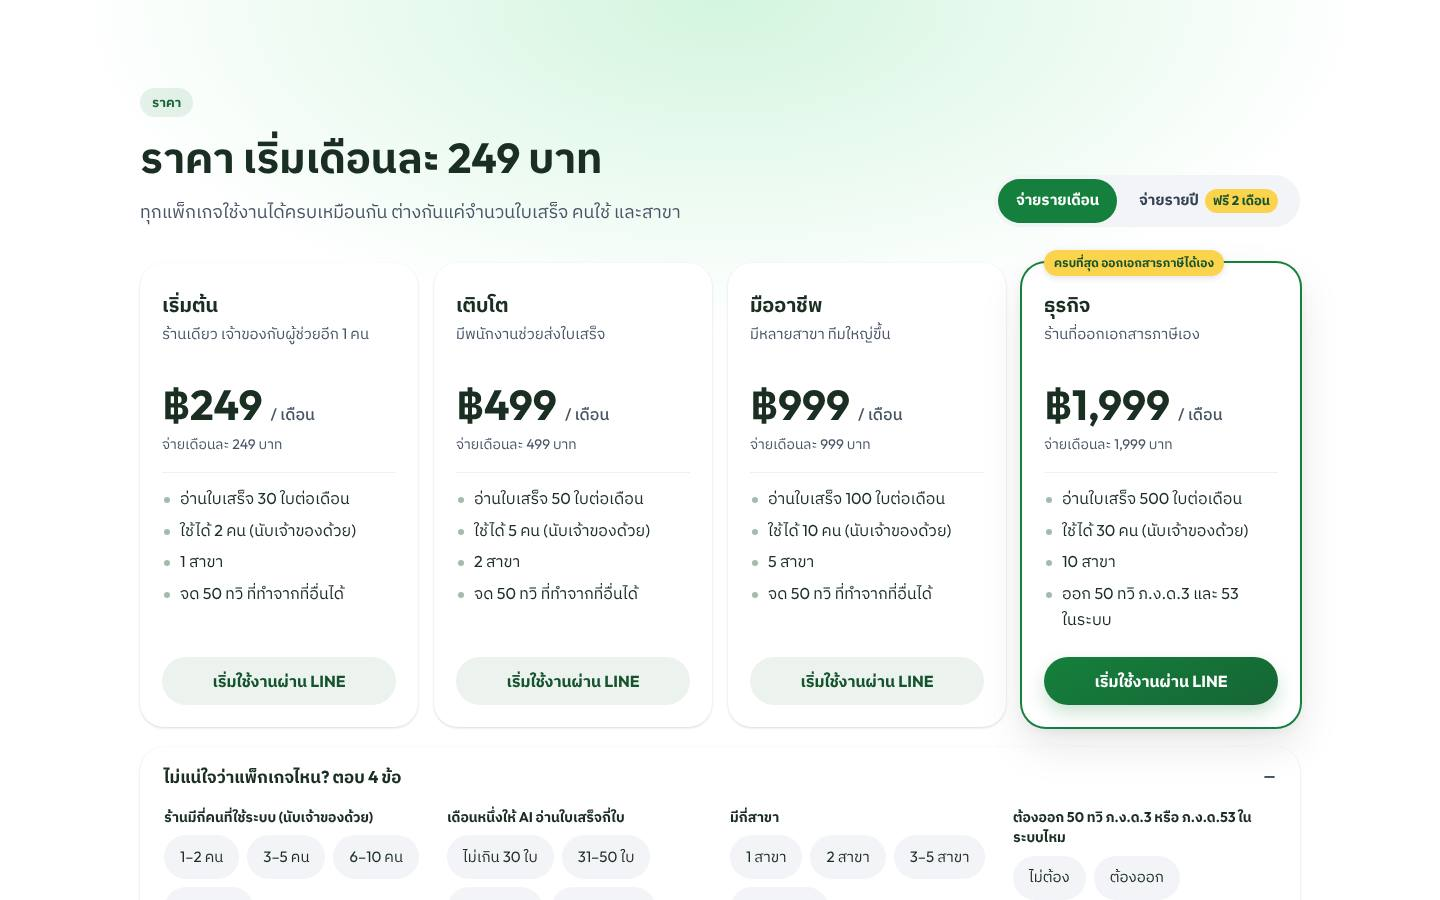
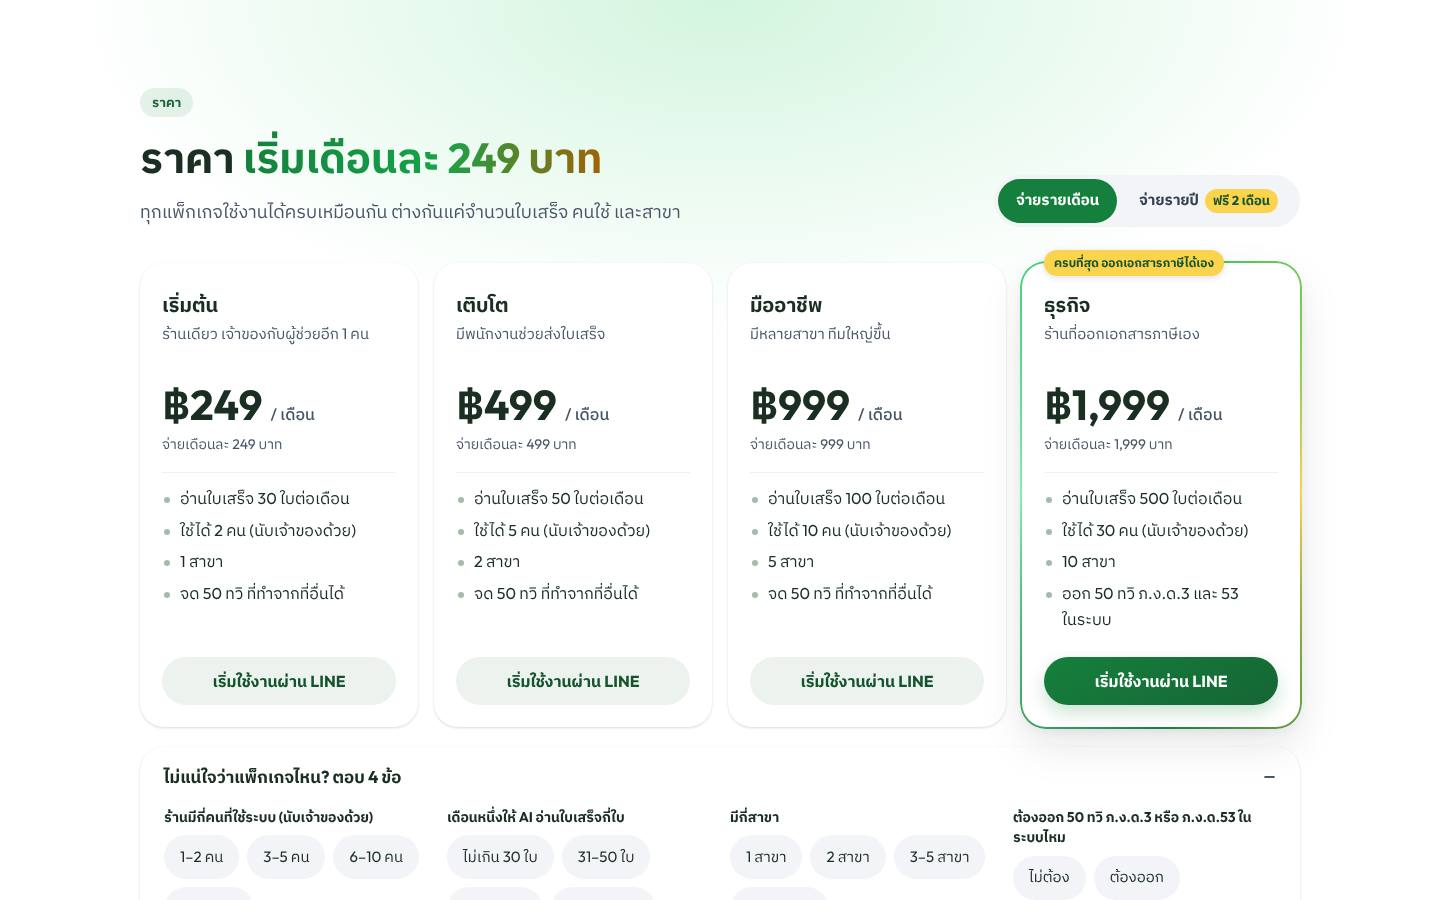
docs: v3 website gets a SaaS-style product stage, feature marquee, count-up stats and a dark glowing bento
The owner found the page flat. The Envato references were unreachable
from this environment, so the round uses common SaaS/AI landing
patterns: a centered hero over a web dashboard mock that mirrors the
real home dashboard beside the LINE chat, drifting glow orbs, a
feature marquee, catalog figures that count up, a dark bento section
and a rotating ring on the featured plan.

Claude-Session: https://claude.ai/code/session_01J7ScAcuHmAWY52w61WzGcF

Changed region(s): [[0.1562, 0.1556, 0.4375, 0.2178], [0.875, 0.7778, 0.9062, 0.8089]]

diff --git a/docs/agent-memory/mangmee-main-website-prototype-2026-10-20.md b/docs/agent-memory/mangmee-main-website-prototype-2026-10-20.md
@@ -309,3 +309,17 @@ Decisions:
 - Hero grid texture via masked ::before; gradient text (#86EFAC→#BBF7D0→#FDE68A) on the green headline line; dot texture on `.alt`.
 - Bento grid replaces the jobs row + full-width blocks: jobs span 2/6 each; น้องมั่งมี spans 4/6 (inner 2 columns, "ควรรู้" and asks full width); ENTERPRISE spans 2/6 as a tall dark tile with form pills and catalog figures (500 ใบ, 30 คน, 10 สาขา). One column under 1100px container width.
 Verification: Chromium 1440/390 no overflow (home 6643 / 12349; pricing 3153 / 5500); scroll test 0 transparent in-view sections; hover lift still -6px; canvas version 20.
+
+## Revision 3m — SaaS/AI template energy
+
+Status: Complete — prototype only.
+Trigger: Owner: "ระบบดูไม่น่าสนใจ ดูเฉยมาก" with two Envato Elements template links.
+Blocked: elements.envato.com is denied by this environment's network policy (proxy CONNECT 403; WebFetch DNS fail); web search did not surface the items. Used common SaaS/AI landing patterns instead and told the owner; did not claim to copy the templates.
+Decisions (apply_r13.py, reproducible from the round-12 file):
+- Centered hero + product stage: web dashboard mock mirroring the real home dashboard strings (dashboard-notifications: รายจ่ายของร้าน, ตั้งแต่/ถึง, ทุกสาขา, ยืนยันแล้ว, ใบเสร็จรอตรวจ, ค้างจ่ายทั้งหมด, monthly confirmed bars, อัปโหลดใบเสร็จ, สร้างใบเบิก) with the LINE phone, mascot and confirmed card overlapping; tilt-in and bar-grow on load; drifting glow orbs. Phone layout hides the dashboard.
+- Feature marquee (13 real capabilities; duplicate list aria-hidden; pauses on hover).
+- Stats card overlapping the hero edge with CSS @property count-up (scroll-driven where supported): 249 / 500 / 30 / 80 from the catalog; sr-only static numbers for screen readers.
+- `#use` becomes a dark gradient section (`dark-sec dark`) with glass job cards and glow hover; น้องมั่งมี card forced back to ink text (it inherited white at first — caught in render).
+- Featured plan: rotating conic-gradient ring via @property --ang (replaces the solid ring + pulse).
+- `.hl` gradient words in h2s.
+Verification: Chromium 1440/390 no overflow (home 7155 / 12627; pricing 3153 / 5500); marquee translateX moves (-31→-111px in 1.5s); count-up mid-scroll 62/124/7/20 then 249/500/30/80; ring --ang advances; scroll test 0 transparent sections; ask bubbles opacity 1 when in view; hover lift -6px; canvas version 22.

diff --git a/docs/prototypes/mangmee-main-website/v3/README.md b/docs/prototypes/mangmee-main-website/v3/README.md
@@ -146,6 +146,15 @@
 - ภาพแรกมีเส้นตารางจาง ๆ หัวเรื่องบรรทัดเน้นไล่สีเขียวไปทอง ส่วนพื้นเขียวอ่อนมีลายจุด
 - ส่วน “ใช้ทำอะไรได้” เป็น bento grid กล่องขนาดต่างกัน กล่องแพ็กเกจธุรกิจสีเข้มแสดง 50 ทวิ ภ.ง.ด.3 ภ.ง.ด.53 และ 500 ใบ 30 คน 10 สาขา
 
+### รอบ 13: ให้หน้าเว็บตื่นเต้นแบบเว็บ SaaS/AI
+
+- เปิดลิงก์ Envato ที่ส่งมาไม่ได้ เพราะเครือข่ายของเครื่องที่ใช้ทำงานบล็อกเว็บนั้น จึงใช้รูปแบบที่เว็บ SaaS/AI ใช้กันทั่วไป
+- ภาพแรกจัดกึ่งกลาง ใต้ปุ่มเป็นภาพหน้าเว็บสรุปรายจ่ายคู่กับแชต LINE น้องมั่งมี กราฟแท่งค่อย ๆ โตขึ้น มีแสงเขียวทองลอยด้านหลัง
+- แถบความสามารถเลื่อนวนไม่หยุด และแถบตัวเลขนับขึ้น 249 / 500 / 30 / 80
+- ส่วน “ใช้ทำอะไรได้” เป็นพื้นเขียวเข้ม การ์ดเรืองแสงตอนชี้
+- การ์ดแพ็กเกจ 1,999 มีขอบไล่สีหมุนรอบ
+- ถ้าส่งภาพหน้าจอเทมเพลตที่ชอบมา จะปรับให้ใกล้ขึ้นได้
+
 ## เรื่องที่รอคุณตัดสินใจ
 
 1. **ลิงก์เข้าสู่ระบบ** คุณให้ `app.mangmeeplus.com/login` แต่ระบบปัจจุบันใช้ `mangmeeplus.com/login` ตอนนี้ต้นแบบใช้ลิงก์ที่คุณให้ ต้องเลือกหนึ่งอัน
